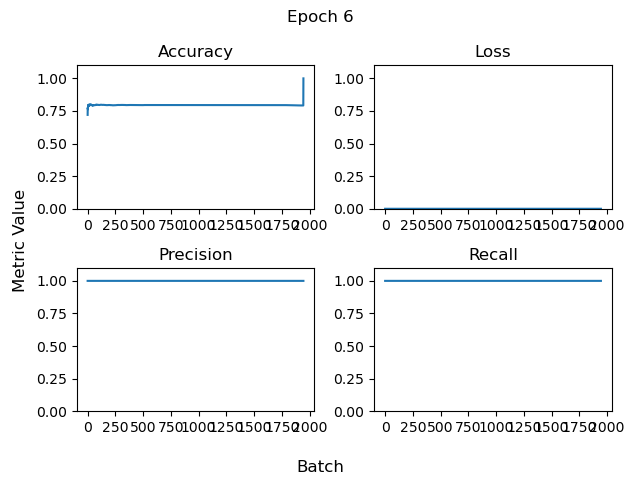
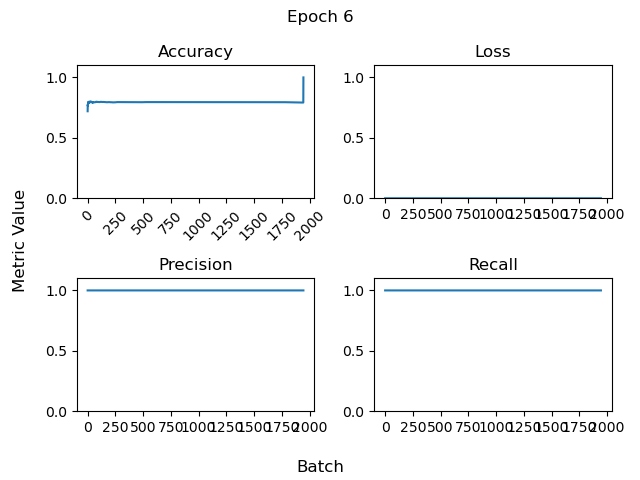
tilting x label

diff --git a/ShapeDNN/getPerBatchMetrics.py b/ShapeDNN/getPerBatchMetrics.py
@@ -51,12 +51,16 @@ for epoch in range(len(Acc)):
 	loss = Loss[epoch]
 	prec = Prec[epoch]
 	rec = Rec[epoch]
+	print(len(acc))
 	fig, axs = plt.subplots(2, 2)
 
 	axs[0, 0].plot(acc)
 	axs[0, 0].set_title('Accuracy')
 	axs[0, 0].set_ylim([0, 1.1])
 	axs[0, 0].xaxis.set_major_locator(MaxNLocator(integer=True))
+	axs[0, 0].tick_params(axis='x', labelrotation = 45)
+	#axs[0, 0].set_xticklabels(axs[0, 0].get_xticks(), rotation=45)
+
 
 	axs[0, 1].plot(loss)
 	axs[0, 1].set_title('Loss')
